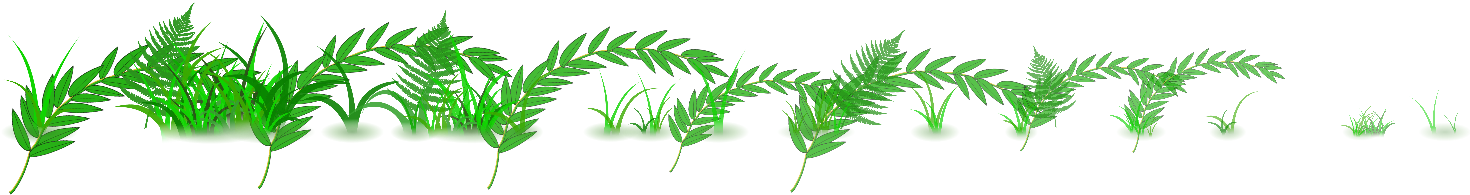
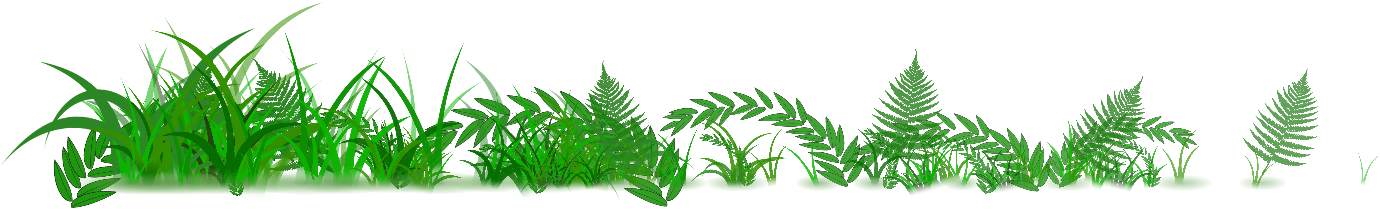
自然绿主题窗口点缀改版：左上角换成半埋在草丛里的鸟窝，一只绿绣眼坐在窝里，一根常春藤从窝底下沿左边框垂下；右上角拐角留两片蕨叶，一根常春藤斜着沿右边框垂下，藤左侧补一片草；上边的草从鸟窝往右、从右上角往左由高到矮自然收尾，草丛高低起伏、疏密不一，去掉枝条的叶串大小不一地插在草里；右下角小草从拐角往左逐渐变矮变稀；几乎看不见的小草不再画；整体颜色加深，去掉左上角三叶草和左下角点缀

diff --git a/dstools/qt/ornaments.py b/dstools/qt/ornaments.py
@@ -53,16 +53,19 @@ _SPRITES: dict[str, tuple[Sprite, ...]] = {
         Sprite("campfire_fire.png", 1, 1, -151.5, -155, 328),
     ),
     "mint": (
+        # 常春藤：一根从左上角鸟窝底下的草丛里沿左边垂下来（先创建，压在鸟窝、蕨叶、绿枝下面，和草叶交织成一片）
+        Sprite("mint_ivy_strand.png", 0, 0, -45.5, 138, 300),
         # 自然绿：从左上角沿上边框向右、沿左边框向下各一条枝叶带，后面是叶子朝外的绿枝，中间探出蕨叶，
-        # 最前面贴边一溜小草一丛丛自然生长、疏密随机，草根扎进框线、脚下垫一小片苔藓晕影，越远越矮越稀越淡
-        Sprite("mint_spray_right.png", 0, 0, 257, -11.5, 65),
-        Sprite("mint_spray_down.png", 0, 0, -15, 195, 408),
-        # 左上主角：几片蕨叶从拐角放射，两根绿枝顺着上边、左边伸出，拐角上三叶草和一丛小草，后创建的小窗叠在两条带上面
-        Sprite("mint_cluster.png", 0, 0, 18, 19, 182),
-        # 右上呼应：沿上边往左、沿右边往下各一条短些的枝叶带，拐角几片蕨叶和一棵三叶草
-        Sprite("mint_spray_corner.png", 1, 0, -109.5, 89.5, 305),
-        # 右下角：一片草丛压在拐角，小草沿下边缘往左越来越矮越稀，蕨叶贴着右边往上伸，三叶草藏在草里；左下角留白
-        Sprite("mint_spray_bottom.png", 1, 1, -213, -57.5, 121),
+        # 最前面是从框线上长出来的一片草（前后两排加一层贴边嫩草），草根扎进框线、脚下垫苔藓晕影；
+        # 上边从鸟窝往右、右上角往左都是起点最高，平滑变矮、变稀、变淡，到中间自然消失
+        Sprite("mint_spray_right.png", 0, 0, 228, -26, 70),
+        Sprite("mint_spray_down.png", 0, 0, -16.5, 130.5, 273),
+        # 左上主角：拐角上方一个鸟窝半埋在草丛里，绿绣眼坐在窝里，几片蕨叶从拐角放射；后创建的小窗叠在两条带上面
+        Sprite("mint_cluster.png", 0, 0, 2, -21.5, 101),
+        # 右上呼应：沿上边往左、沿右边往下各一条短些的枝叶带，拐角两片蕨叶，一根短常春藤沿右边垂下
+        Sprite("mint_spray_corner.png", 1, 0, -68.5, 65, 256),
+        # 右下角：小草从拐角长起，沿下边缘往左越来越矮、越稀、越淡直到消失，蕨叶贴着右边往上伸，三叶草藏在草里
+        Sprite("mint_spray_bottom.png", 1, 1, -196.5, -50.5, 101),
     ),
     "sakura": (
         # 从左上角沿上边框向右、沿左边框向下各一串花朵、花蕾，粉色细茎相连，末端收向外框线、花瓣渐稀渐淡
